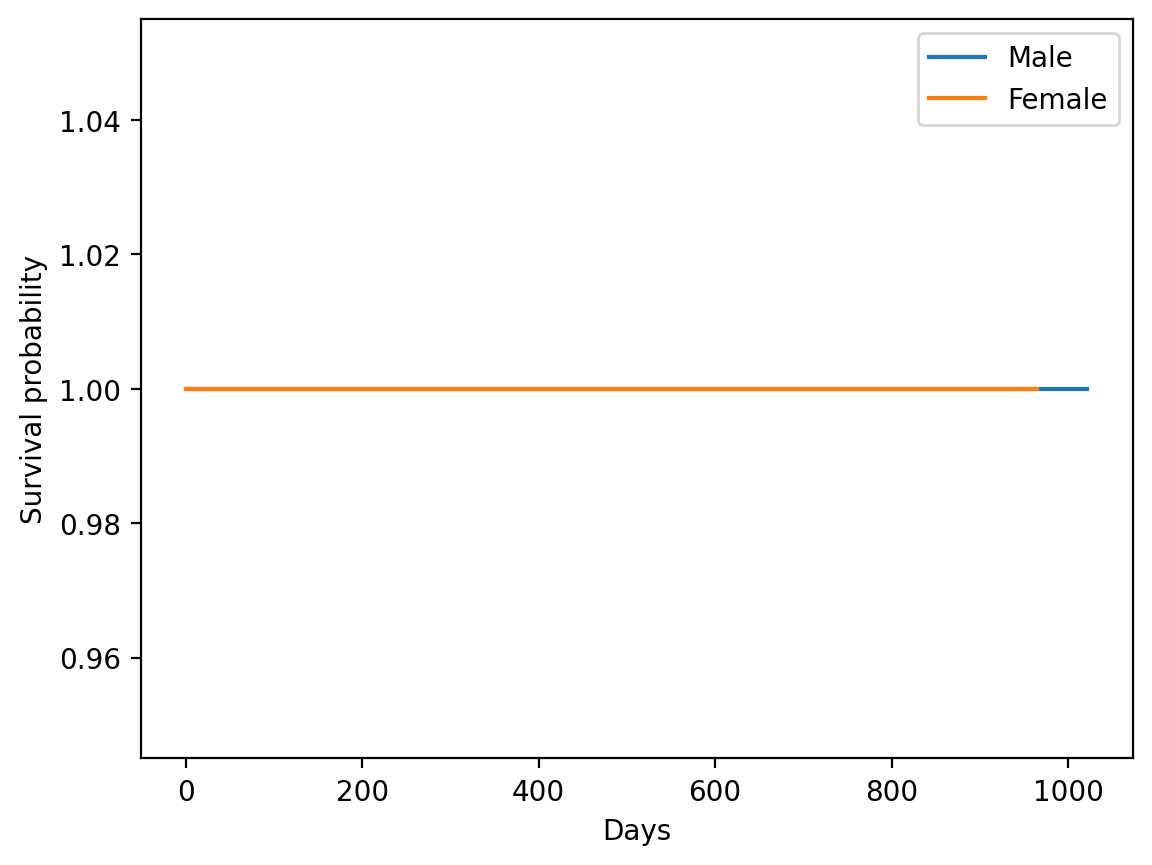
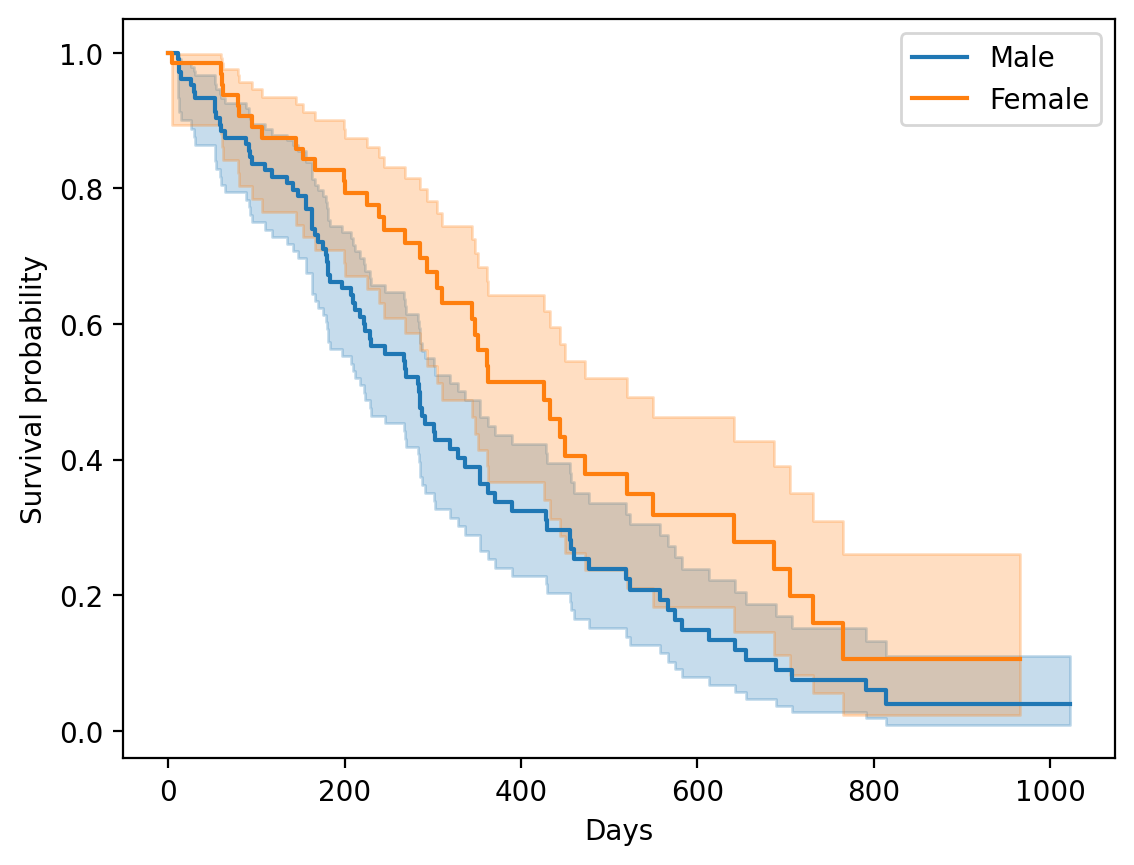
Add files via upload

diff --git a/src/survival_analysis.py b/src/survival_analysis.py
@@ -13,7 +13,9 @@ os.makedirs("results", exist_ok=True)
 # 1. Load and prepare data
 df = load_lung()
 df.columns = df.columns.str.replace(".", "_", regex=False)
-df["event"] = (df["status"] == 2).astype(int)   # 2 = death, 1 = censored
+# lifelines may code status as 0/1 (1 = death) or 1/2 (2 = death)
+df["event"] = (df["status"] == df["status"].max()).astype(int)
+print("status values:", sorted(df["status"].unique()), "| sex values:", sorted(df["sex"].unique()))
 df = df.drop(columns=["status", "inst"]).dropna()  # complete cases only
 print("Patients:", len(df), "| Events:", df["event"].sum())
 
